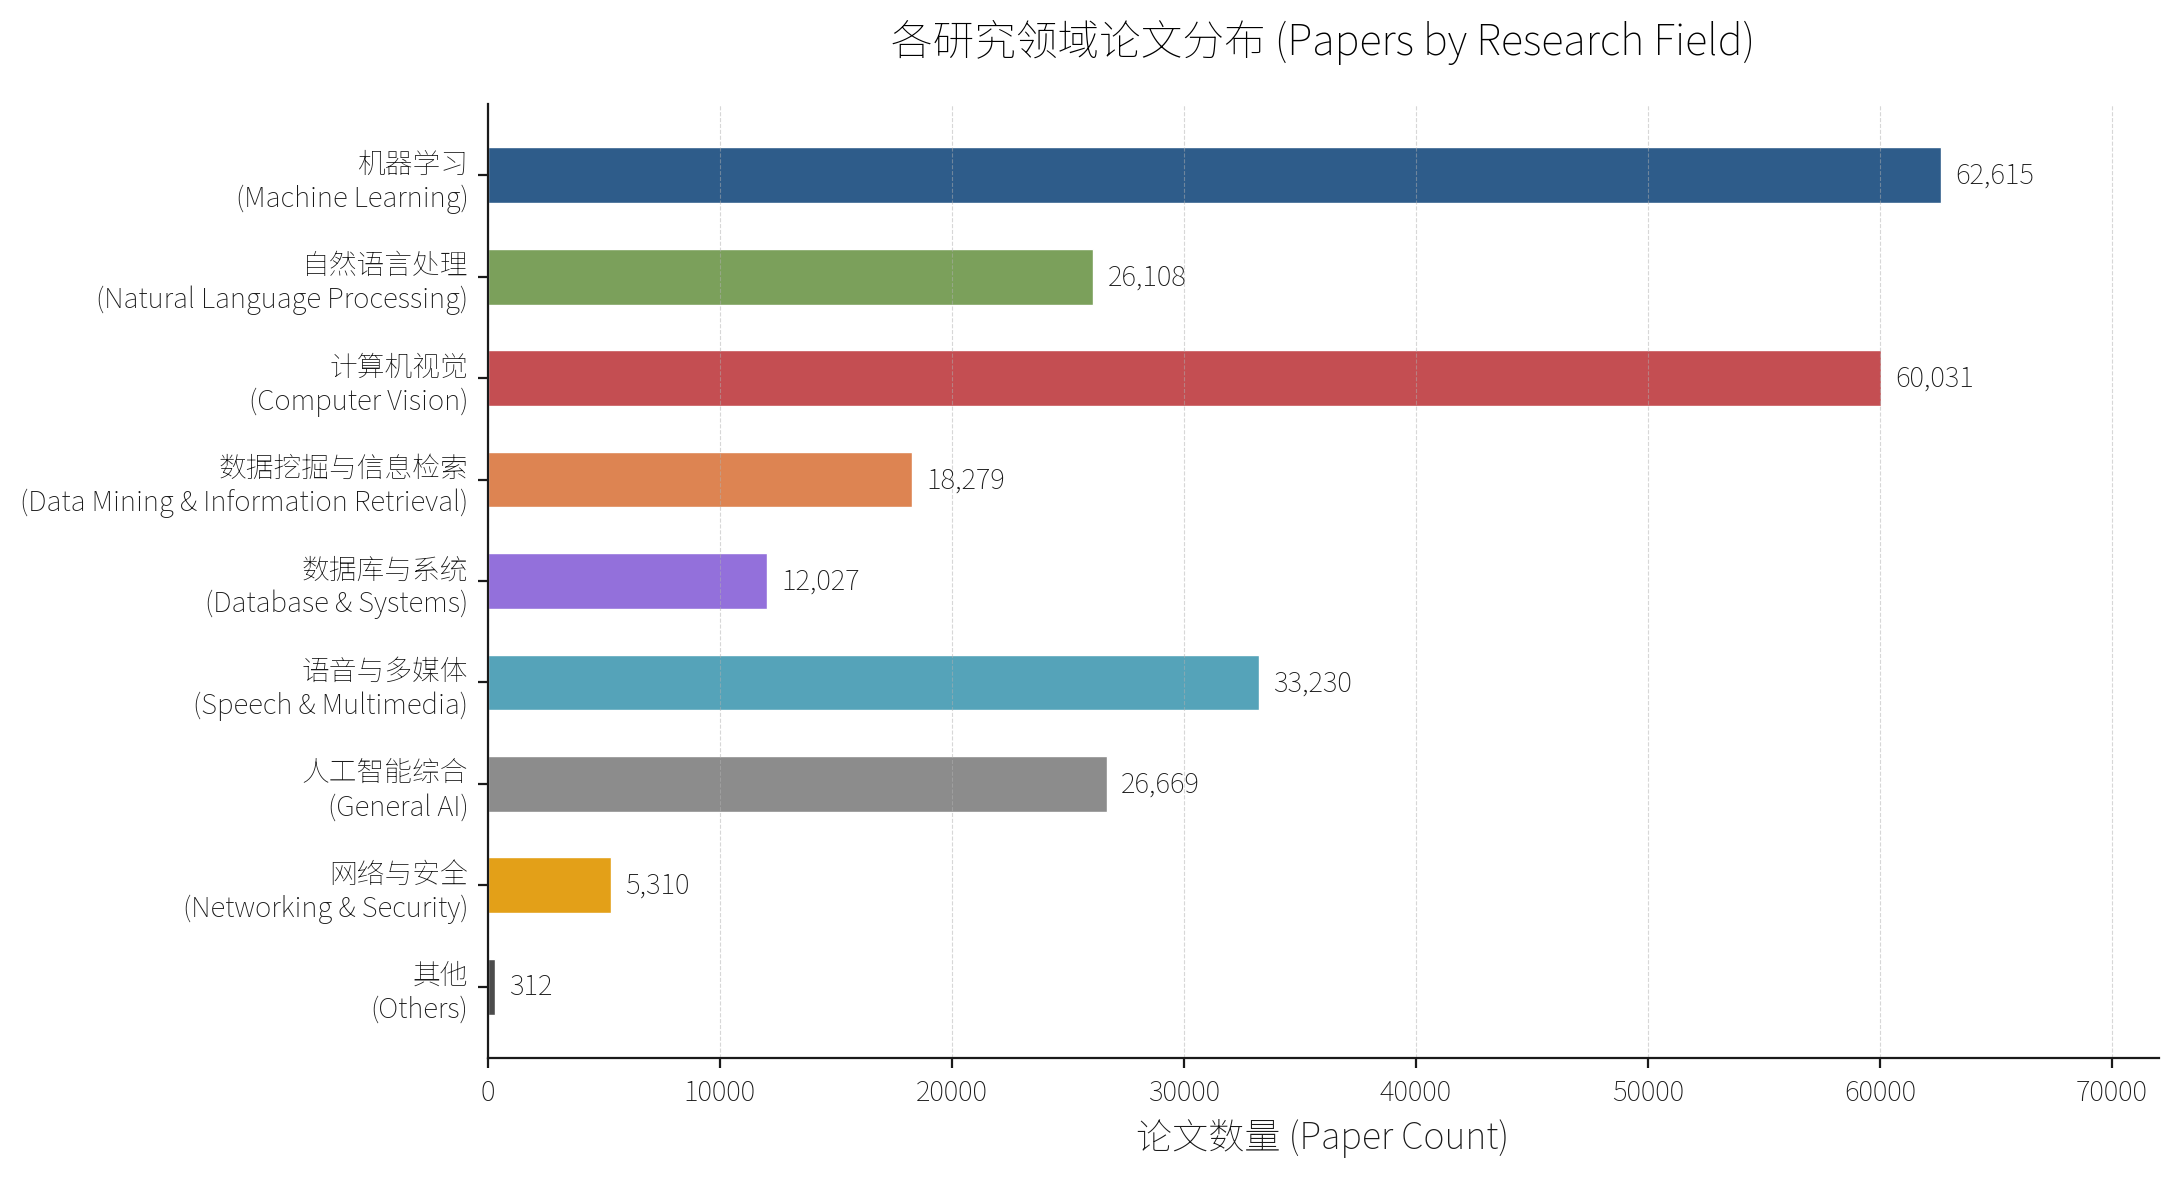
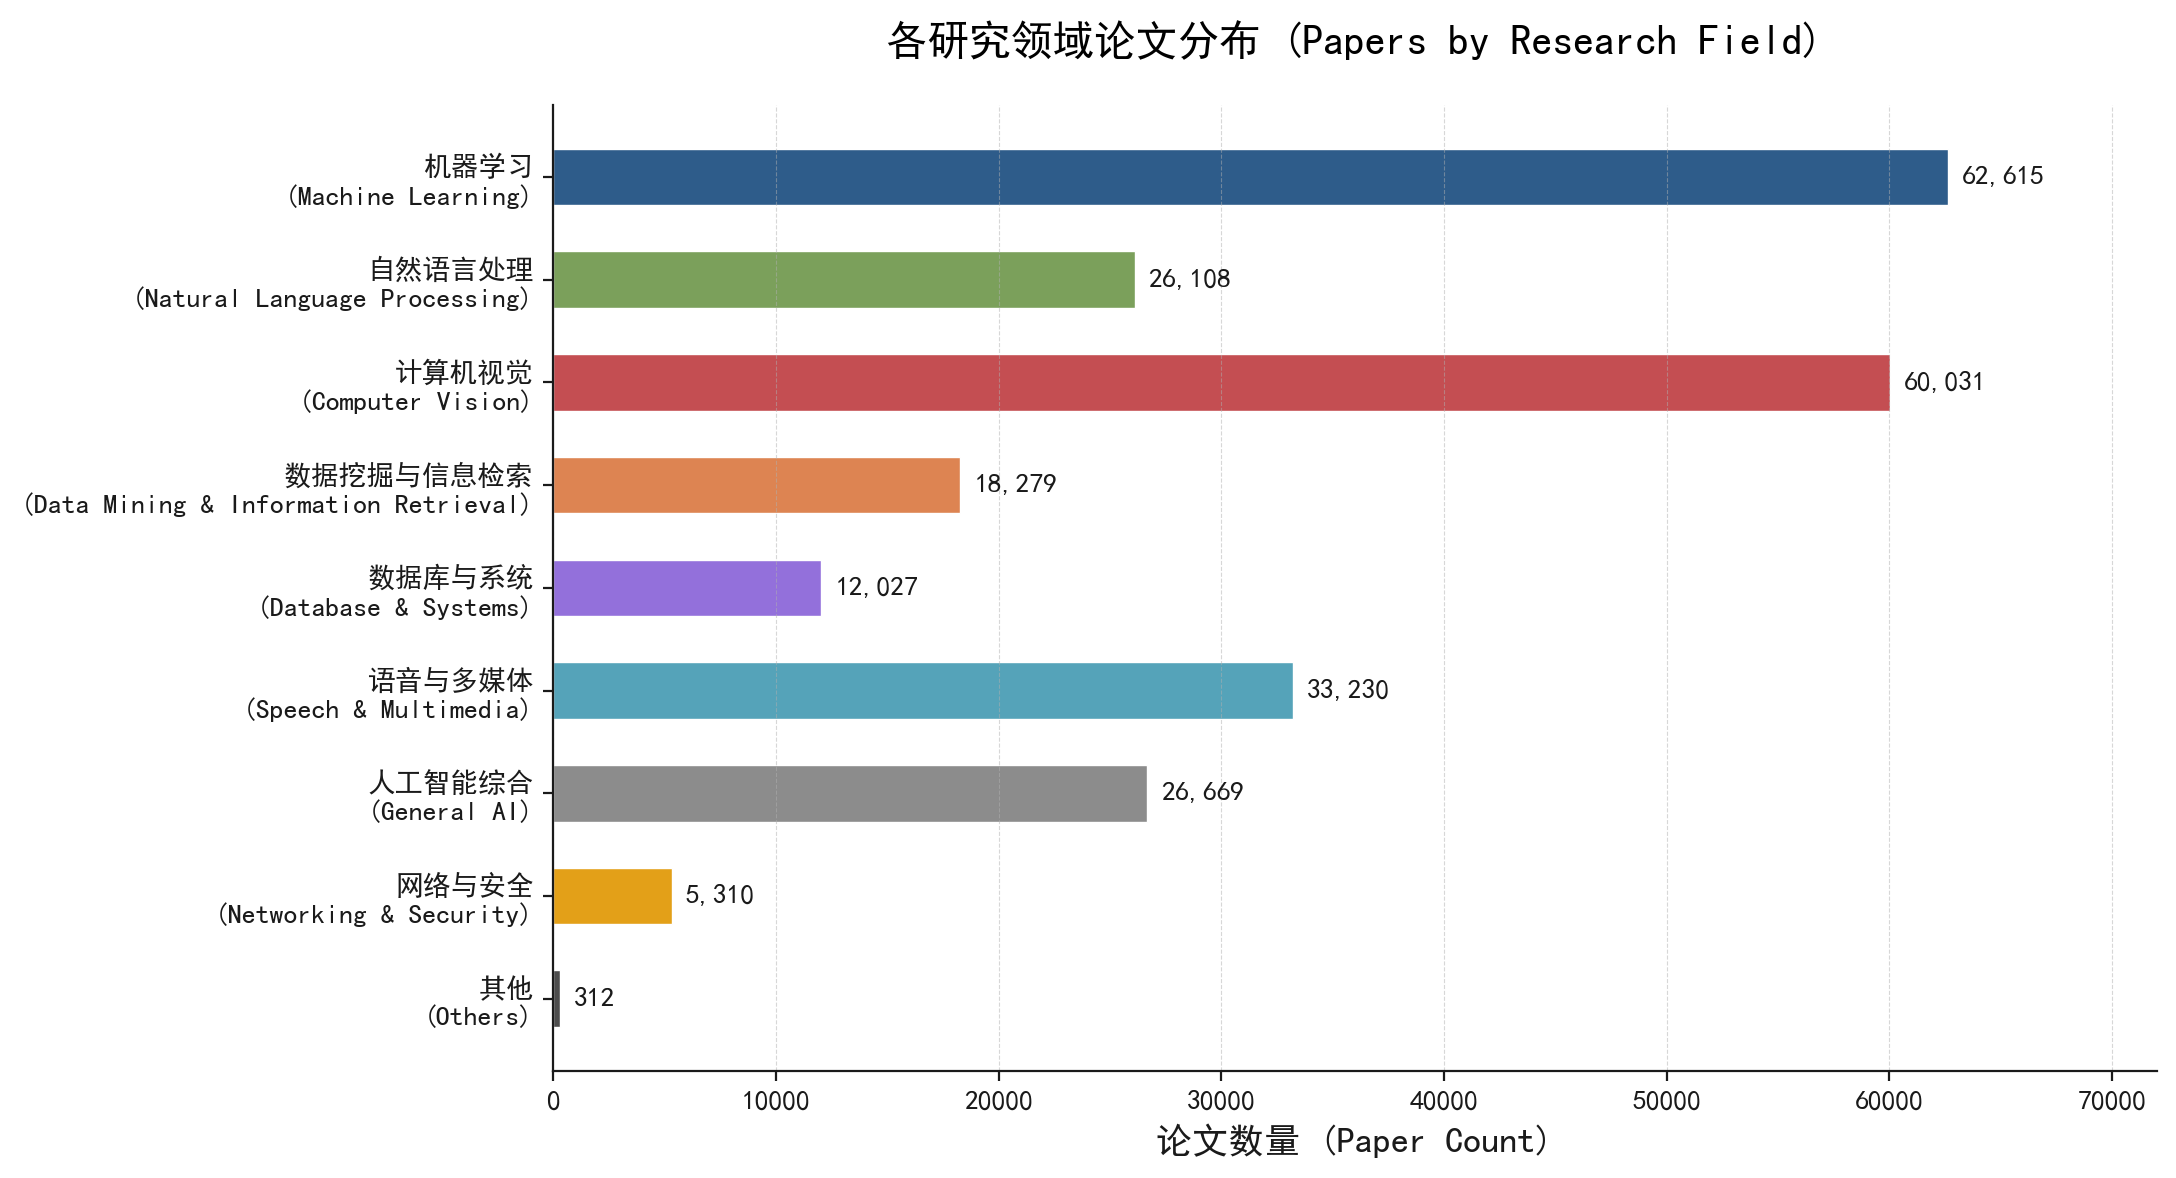
feat(maintain):加粗统计数字、统一词云配色、移除摘要覆盖图
- stats_overview.png: 数字改用 SimHei 黑体 + fontweight='black' + fontsize=32，更醒目
- 全局字体优先级调整为 SimHei 首位，整体可读性提升
- 新增 SERIES_COLOR_MAP，使 wordcloud 与 papers_by_category 按 category 统一配色
- 删除 abstract_coverage.png 及其在代码与 README 中的全部引用
- 清理未使用的 import random

diff --git a/maintain.py b/maintain.py
@@ -3,7 +3,6 @@ import os
 import sys
 import json
 import re
-import random
 from datetime import datetime
 from collections import defaultdict
 
@@ -70,10 +69,17 @@ CATEGORY_MAP_EN = {
     "Others": ["ISWC", "STOC"],
 }
 
+# Map each publication series to its category color for consistent theming across charts
+SERIES_COLOR_MAP = {}
+for idx, names in enumerate(CATEGORY_MAP.values()):
+    color = NATURE_COLORS[idx % len(NATURE_COLORS)]
+    for name in names:
+        SERIES_COLOR_MAP[name] = color
+
 
 def _ensure_chinese_font():
     """Configure matplotlib to support Chinese characters on Windows."""
-    plt.rcParams["font.sans-serif"] = ["Noto Sans SC", "Microsoft YaHei", "SimHei", "sans-serif"]
+    plt.rcParams["font.sans-serif"] = ["SimHei", "Noto Sans SC", "Microsoft YaHei", "sans-serif"]
     plt.rcParams["axes.unicode_minus"] = False
     plt.rcParams["axes.labelweight"] = "bold"
     plt.rcParams["axes.titleweight"] = "bold"
@@ -199,32 +205,7 @@ def generate_charts(stats: dict):
     fig.savefig(os.path.join(stats_dir, "papers_by_year.png"), dpi=200, bbox_inches="tight", facecolor="white")
     plt.close(fig)
 
-    # ---------- Chart 3: Abstract Coverage (donut) ----------
-    fig, ax = plt.subplots(figsize=(6, 6))
-    total = stats["total_papers"]
-    have_abs = stats["total_abstracts"]
-    no_abs = total - have_abs
-    sizes = [have_abs, no_abs]
-    labels = [
-        f"含摘要 (With Abstract)\n{have_abs/total*100:.1f}%",
-        f"暂无摘要 (No Abstract)\n{no_abs/total*100:.1f}%",
-    ]
-    colors_donut = ["#7BA05B", "#E8E8E8"]
-    explode = (0.02, 0)
-
-    wedges, texts = ax.pie(sizes, colors=colors_donut, startangle=90,
-                           wedgeprops=dict(width=0.45, edgecolor="white"),
-                           explode=explode)
-    ax.text(0, 0, f"{total:,}\nTotal 总计", ha="center", va="center", fontsize=15, fontweight="bold",
-            color="#1a1a1a", linespacing=1.3)
-    ax.legend(wedges, labels, loc="lower center", bbox_to_anchor=(0.5, -0.08),
-              ncol=2, frameon=False, fontsize=10, title_fontsize=11)
-    ax.set_title("摘要覆盖情况 (Abstract Coverage)", fontsize=15, fontweight="bold", pad=18)
-    fig.tight_layout()
-    fig.savefig(os.path.join(stats_dir, "abstract_coverage.png"), dpi=200, bbox_inches="tight", facecolor="white")
-    plt.close(fig)
-
-    # ---------- Chart 4: Overview Infographic (big numbers) ----------
+    # ---------- Chart 3: Overview Infographic (big numbers) ----------
     fig, ax = plt.subplots(figsize=(10, 2.4))
     ax.set_xlim(0, 10)
     ax.set_ylim(0, 2.4)
@@ -239,8 +220,8 @@ def generate_charts(stats: dict):
     n = len(metrics)
     x_positions = [1.25 + i * 2.5 for i in range(n)]
     for (label, value, color), x in zip(metrics, x_positions):
-        ax.text(x, 1.55, value, fontsize=28, fontweight="bold", ha="center", va="center", color=color)
-        ax.text(x, 0.55, label, fontsize=11, ha="center", va="center", color="#444444", linespacing=1.4)
+        ax.text(x, 1.55, value, fontsize=32, fontweight="black", ha="center", va="center", color=color)
+        ax.text(x, 0.55, label, fontsize=12, ha="center", va="center", color="#444444", linespacing=1.4)
         if x < x_positions[-1]:
             ax.plot([x + 1.25, x + 1.25], [0.25, 1.85], color="#DDDDDD", linewidth=0.8)
 
@@ -271,7 +252,7 @@ def generate_wordcloud(stats: dict):
         prefer_horizontal=0.92,
         min_font_size=12,
         max_font_size=260,
-        color_func=lambda *args, **kwargs: random.choice(NATURE_COLORS),
+        color_func=lambda word, *args, **kwargs: SERIES_COLOR_MAP.get(word, "#8C8C8C"),
         random_state=42,
     ).generate_from_frequencies(frequencies)
 
@@ -408,12 +389,9 @@ def build_stats_section():
         '  <img src="./pics/stats/wordcloud.png" alt="刊物系列词云" width="900" />',
         "</p>",
         "",
-        "<table>",
-        "  <tr>",
-        '    <td align="center"><img src="./pics/stats/papers_by_category.png" alt="各领域论文数量" width="500" /></td>',
-        '    <td align="center"><img src="./pics/stats/abstract_coverage.png" alt="摘要覆盖情况" width="330" /></td>',
-        "  </tr>",
-        "</table>",
+        '<p align="center">',
+        '  <img src="./pics/stats/papers_by_category.png" alt="各领域论文数量" width="800" />',
+        "</p>",
         "",
         '<p align="center">',
         '  <img src="./pics/stats/papers_by_year.png" alt="历年论文收录趋势" width="800" />',
@@ -433,12 +411,9 @@ def build_stats_section_en():
         '  <img src="./pics/stats/wordcloud.png" alt="Publication Series Word Cloud" width="900" />',
         "</p>",
         "",
-        "<table>",
-        "  <tr>",
-        '    <td align="center"><img src="./pics/stats/papers_by_category.png" alt="Papers by Research Field" width="500" /></td>',
-        '    <td align="center"><img src="./pics/stats/abstract_coverage.png" alt="Abstract Coverage" width="330" /></td>',
-        "  </tr>",
-        "</table>",
+        '<p align="center">',
+        '  <img src="./pics/stats/papers_by_category.png" alt="Papers by Research Field" width="800" />',
+        "</p>",
         "",
         '<p align="center">',
         '  <img src="./pics/stats/papers_by_year.png" alt="Annual Paper Collection Trend" width="800" />',

diff --git a/README.en.md b/README.en.md
@@ -46,12 +46,9 @@ PaperVault is a fully automated tool for collecting and retrieving academic pape
   <img src="./pics/stats/wordcloud.png" alt="Publication Series Word Cloud" width="900" />
 </p>
 
-<table>
-  <tr>
-    <td align="center"><img src="./pics/stats/papers_by_category.png" alt="Papers by Research Field" width="500" /></td>
-    <td align="center"><img src="./pics/stats/abstract_coverage.png" alt="Abstract Coverage" width="330" /></td>
-  </tr>
-</table>
+<p align="center">
+  <img src="./pics/stats/papers_by_category.png" alt="Papers by Research Field" width="800" />
+</p>
 
 <p align="center">
   <img src="./pics/stats/papers_by_year.png" alt="Annual Paper Collection Trend" width="800" />

diff --git a/README.md b/README.md
@@ -46,12 +46,9 @@ PaperVault 是一个用于收集和检索人工智能领域学术论文的全自
   <img src="./pics/stats/wordcloud.png" alt="刊物系列词云" width="900" />
 </p>
 
-<table>
-  <tr>
-    <td align="center"><img src="./pics/stats/papers_by_category.png" alt="各领域论文数量" width="500" /></td>
-    <td align="center"><img src="./pics/stats/abstract_coverage.png" alt="摘要覆盖情况" width="330" /></td>
-  </tr>
-</table>
+<p align="center">
+  <img src="./pics/stats/papers_by_category.png" alt="各领域论文数量" width="800" />
+</p>
 
 <p align="center">
   <img src="./pics/stats/papers_by_year.png" alt="历年论文收录趋势" width="800" />
